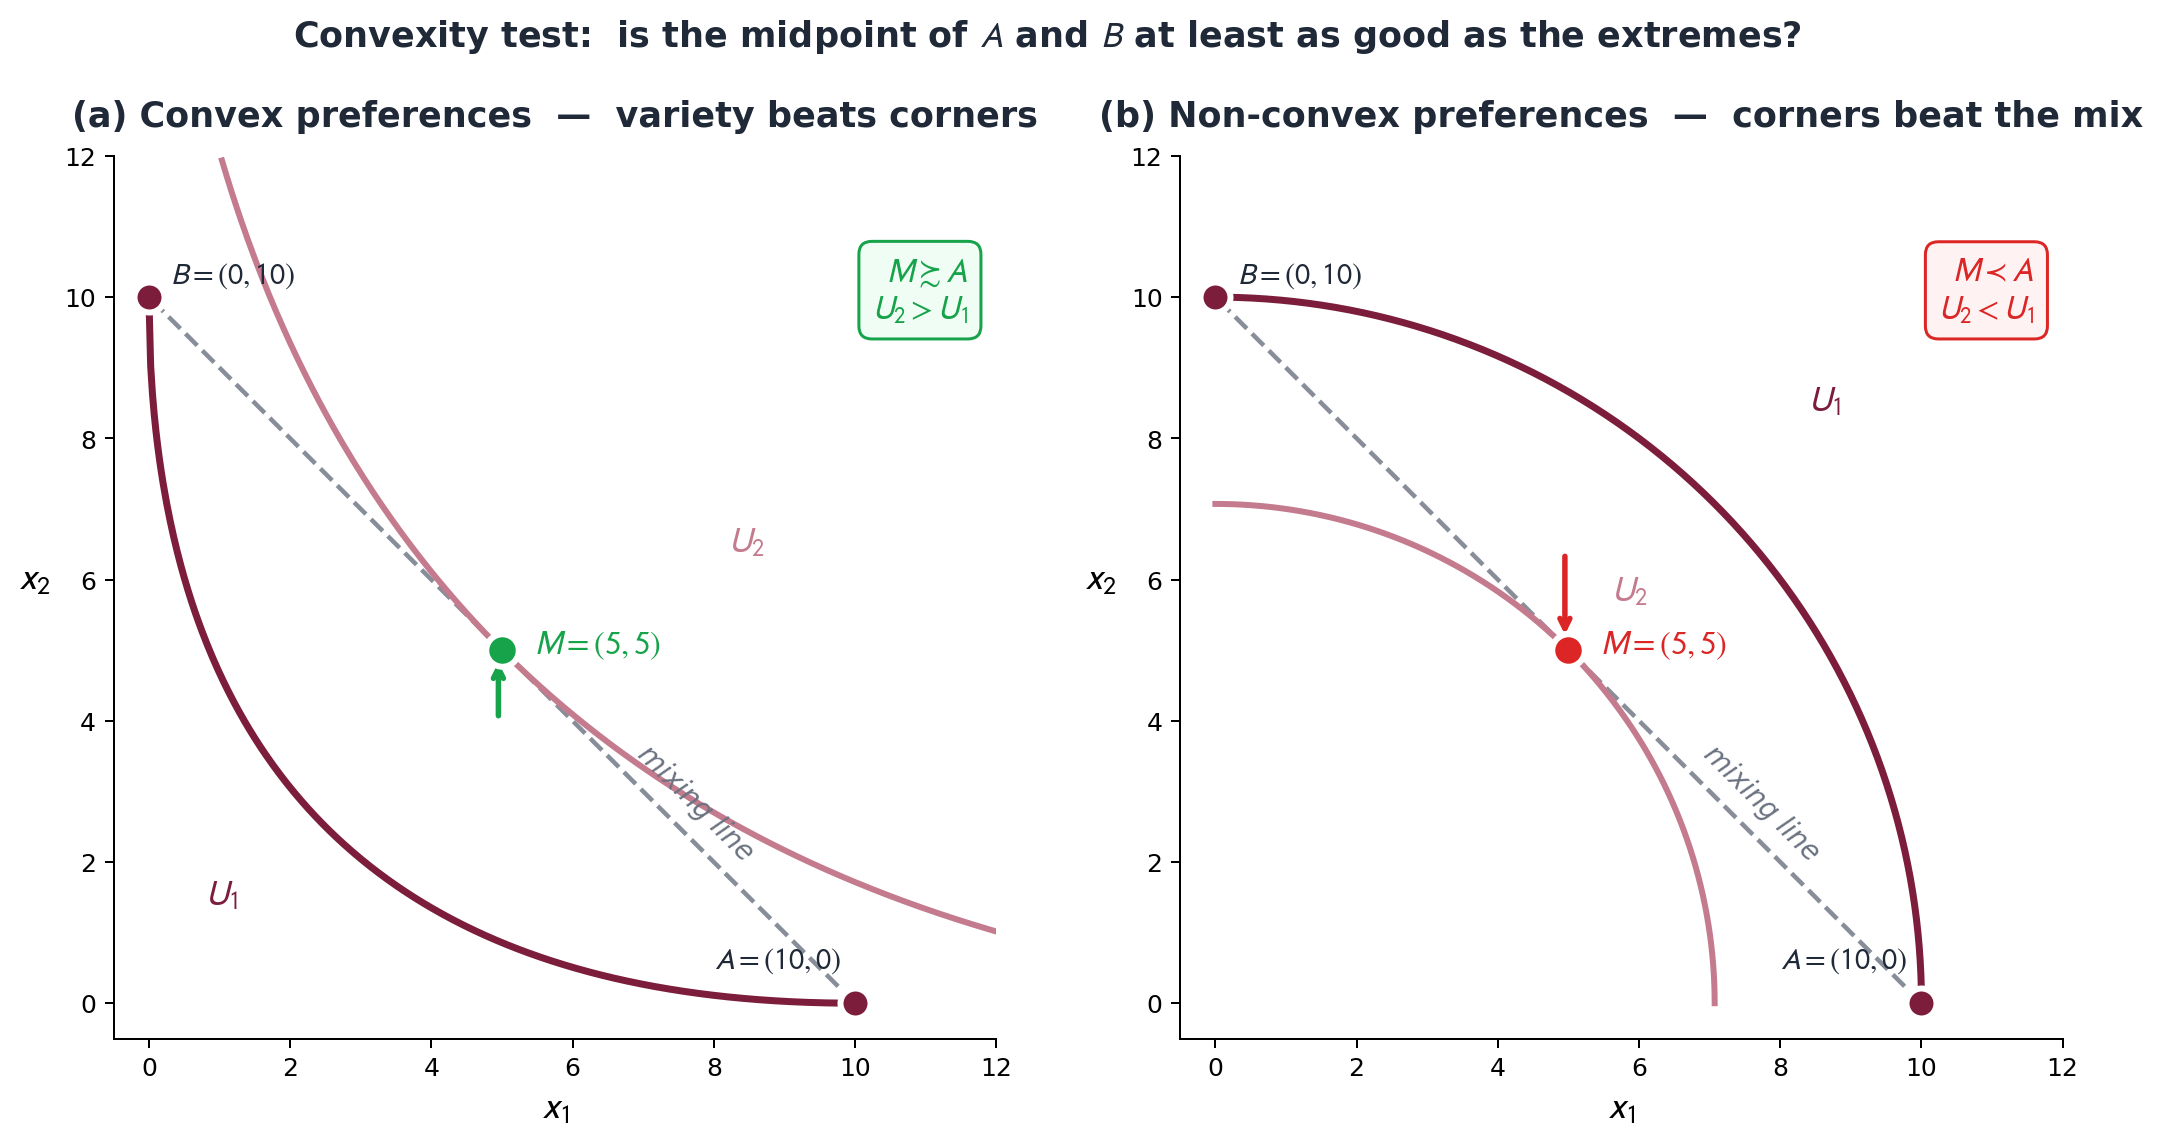
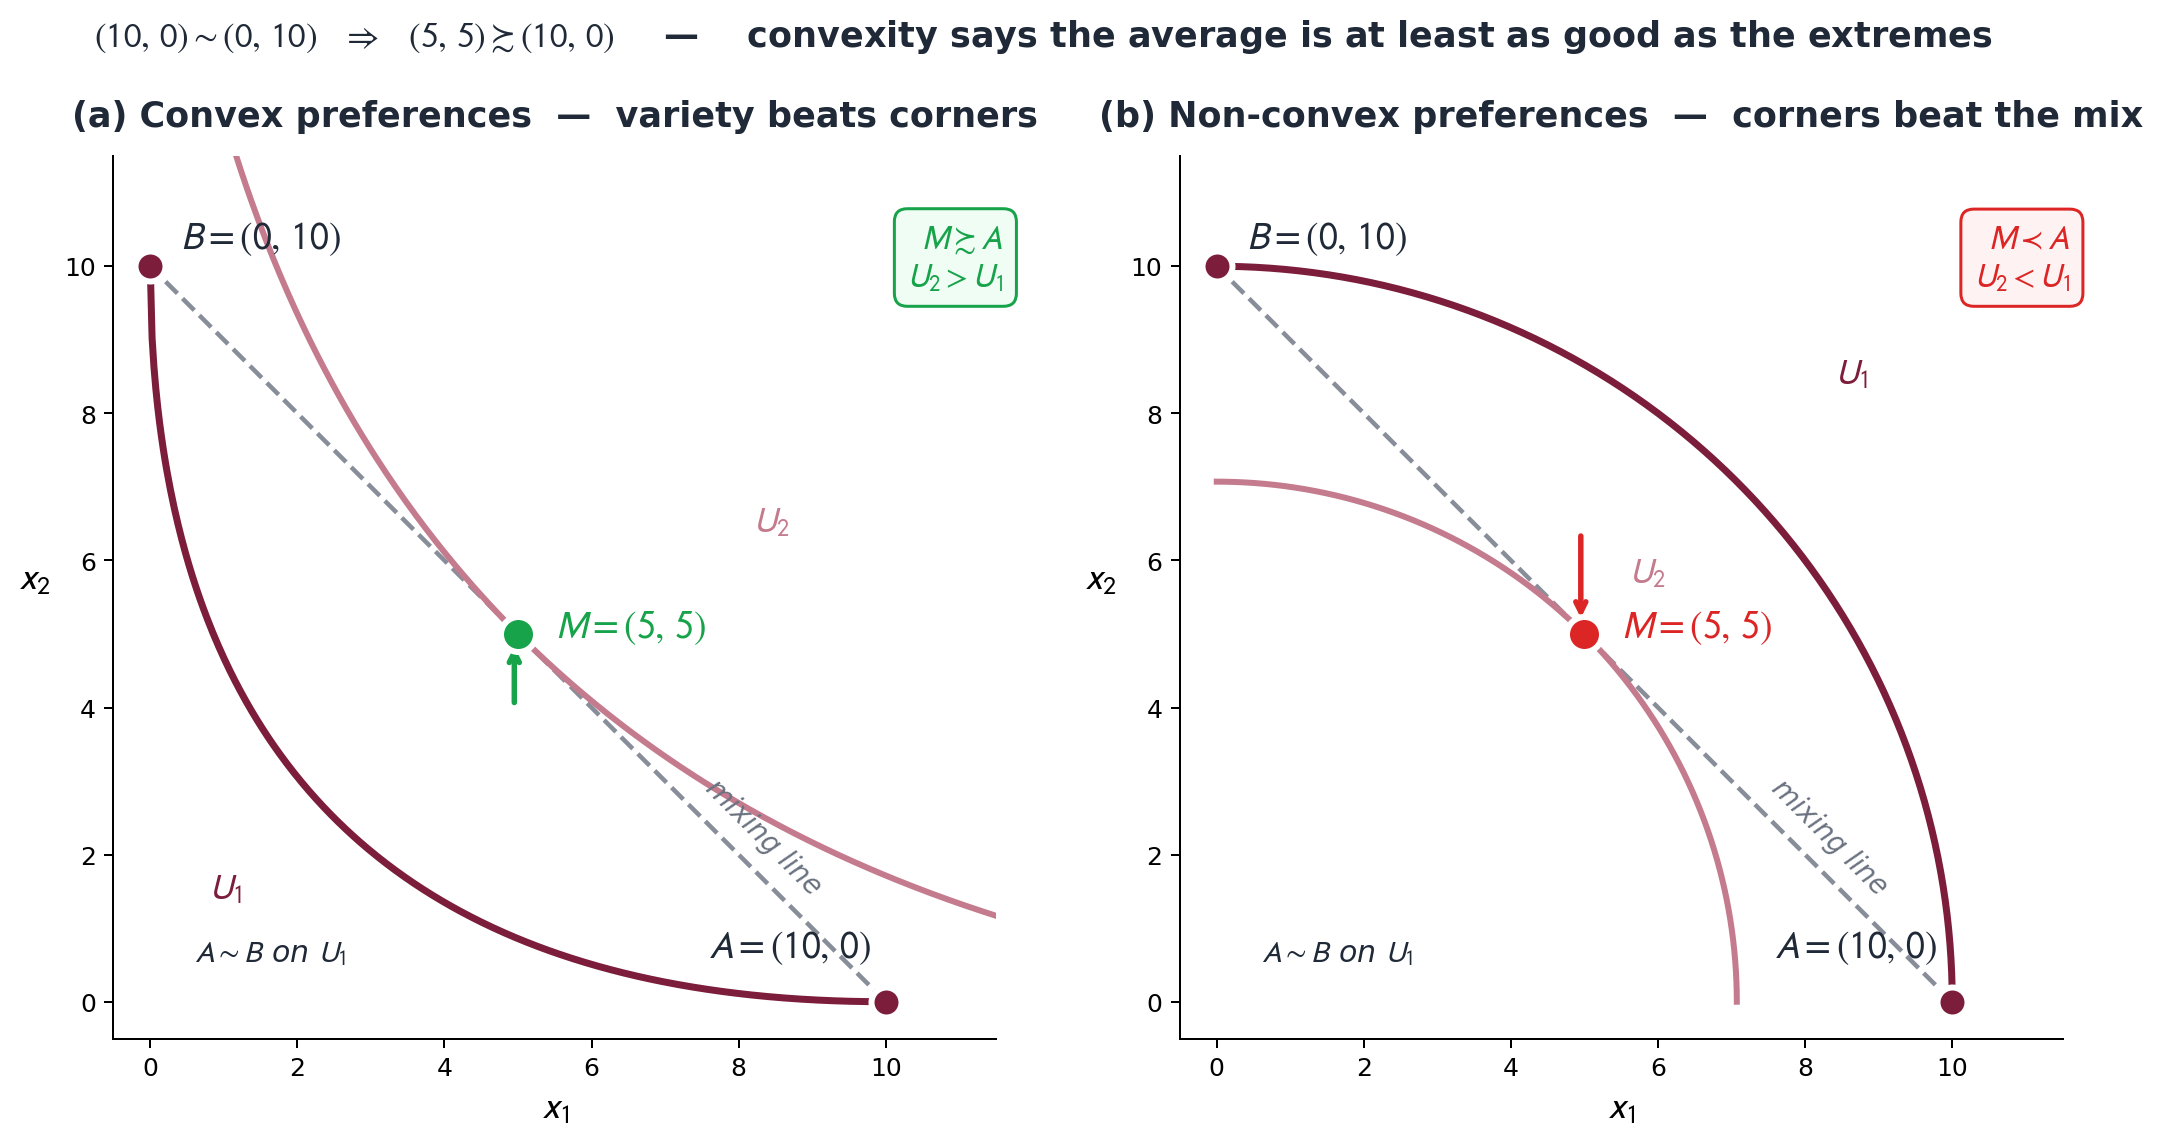
ch04: rename neutral-good Walkthrough to Sofia/TikTok + page-21 figure tweaks
Page 67 (Walkthrough -- A Neutral Good):
- Rename Ming -> Sofia; reality TV -> TikTok (variable R -> T).
- Add sofia_neutral_good.png with the TikTok x-axis label.
- Image is now a fragment paired with Step 1 (same
  data-fragment-index), so the figure stays hidden until the first
  reveal and appears with Step 1.

Page 21 (Convexity):
- Regenerate convexity_avg_vs_extremes.png so the slide's exact
  numbers are unmistakable in the figure: header now reads
  "(10, 0) ~ (0, 10)  =>  (5, 5) %3E= (10, 0)", coordinate labels
  bumped to 15pt, and "A ~ B on U1" added to each panel to surface
  the indifference relation explicitly.

diff --git a/econ2316/ch04-preferences-utility/index.html b/econ2316/ch04-preferences-utility/index.html
@@ -2191,33 +2191,33 @@
   <aside class="notes">Figure 4.8 &mdash; the realistic picture. The perfect-substitutes (straight lines) and perfect-complements (L-shapes) slides just before this are the two textbook extremes; real goods live on the spectrum between them. Panel (a): decaf lattes vs decaf coffees &mdash; very close substitutes, so the indifference curves are <em>almost</em> straight (only gently bowed). Panel (b): tortilla chips vs guacamole &mdash; strong complements, so the curves bow <em>sharply</em> (but not perfectly L-shaped &mdash; you would still take more chips even with no extra guac). The takeaway: curvature is continuous. How sharply an indifference curve bends measures how substitutable two goods are, and that lives on a dial between the SUM and MIN extremes.</aside>
 </section>
 
-<!-- ===== Slide 42b2 — Walkthrough: Neutral Good (Ming, YouTube vs reality TV) ===== -->
+<!-- ===== Slide 42b2 — Walkthrough: Neutral Good (Sofia, YouTube vs TikTok) ===== -->
 <section id="s4-w-neutral-good">
-  <h2><i class="fa-solid fa-pencil" style="color: var(--accent-color);"></i> Walkthrough &mdash; A Neutral Good (Ming's videos)</h2>
-  <p style="font-size: 13pt; color: var(--muted-color); margin: 0 0 8px;"><em>Ming watches \(Y\) hours of YouTube and \(R\) hours of reality shows. More YouTube &rArr; happier. Reality TV is <strong>neutral</strong> &mdash; doesn't move utility. Find the IC map and the MRS at \((R, Y) = (1, 1)\).</em></p>
+  <h2><i class="fa-solid fa-pencil" style="color: var(--accent-color);"></i> Walkthrough &mdash; A Neutral Good (Sofia's videos)</h2>
+  <p style="font-size: 13pt; color: var(--muted-color); margin: 0 0 8px;"><em>Sofia watches \(Y\) hours of YouTube and \(T\) hours of TikTok. More YouTube &rArr; happier. TikTok is <strong>neutral</strong> &mdash; doesn't move utility. Find the IC map and the MRS at \((T, Y) = (1, 1)\).</em></p>
   <div style="display: grid; grid-template-columns: 1.05fr 0.95fr; gap: 22px; align-items: center;">
     <div style="display: flex; flex-direction: column; gap: 8px;">
-      <div class="fragment" style="background: #f8f6f3; padding: 10px 16px; border-radius: 8px;">
-        <p style="font-size: 12.5pt; margin: 0 0 3px;"><strong>Step 1 &mdash; vary \(Y\) at fixed \(R\):</strong></p>
+      <div class="fragment" data-fragment-index="1" style="background: #f8f6f3; padding: 10px 16px; border-radius: 8px;">
+        <p style="font-size: 12.5pt; margin: 0 0 3px;"><strong>Step 1 &mdash; vary \(Y\) at fixed \(T\):</strong></p>
         <p style="font-size: 12.5pt; margin: 0;">\(B = (1, 2)\) has more YouTube than \(A = (1, 1)\) &rArr; \(B \succ A\). Higher \(Y\) sits on a higher IC.</p>
       </div>
-      <div class="fragment" style="background: #f0f5f8; padding: 10px 16px; border-radius: 8px; border-left: 4px solid var(--secondary-color);">
-        <p style="font-size: 12.5pt; margin: 0 0 3px;"><strong>Step 2 &mdash; vary \(R\) at fixed \(Y\):</strong></p>
-        <p style="font-size: 12.5pt; margin: 0;">\(C = (2, 1)\) gives Ming more reality TV than \(A\), but \(R\) is neutral &rArr; \(C \sim A\). Same for \(D, E\) at \(Y = 1\).</p>
+      <div class="fragment" data-fragment-index="2" style="background: #f0f5f8; padding: 10px 16px; border-radius: 8px; border-left: 4px solid var(--secondary-color);">
+        <p style="font-size: 12.5pt; margin: 0 0 3px;"><strong>Step 2 &mdash; vary \(T\) at fixed \(Y\):</strong></p>
+        <p style="font-size: 12.5pt; margin: 0;">\(C = (2, 1)\) gives Sofia more TikTok than \(A\), but \(T\) is neutral &rArr; \(C \sim A\). Same for \(D, E\) at \(Y = 1\).</p>
       </div>
-      <div class="fragment" style="background: #fef9f3; padding: 10px 16px; border-radius: 8px; border-left: 4px solid var(--accent-color);">
+      <div class="fragment" data-fragment-index="3" style="background: #fef9f3; padding: 10px 16px; border-radius: 8px; border-left: 4px solid var(--accent-color);">
         <p style="font-size: 12.5pt; margin: 0;"><strong>Step 3 &mdash; the shape:</strong> ICs are <strong>horizontal lines</strong>. \(A, C, D, E\) all sit on \(U_1\); \(B, F\) sit on the higher \(U_2\).</p>
       </div>
-      <div class="key-result fragment" style="margin: 0;">
-        <p style="font-size: 13pt;">MRS at \((1, 1)\) is the <em>slope</em> of \(U_1\), which is \(0\). \(\mathrm{MRS}_{R, Y} = 0\) &mdash; Ming gives up <strong>zero</strong> YouTube for an extra hour of reality TV.</p>
+      <div class="key-result fragment" data-fragment-index="4" style="margin: 0;">
+        <p style="font-size: 13pt;">MRS at \((1, 1)\) is the <em>slope</em> of \(U_1\), which is \(0\). \(\mathrm{MRS}_{T, Y} = 0\) &mdash; Sofia gives up <strong>zero</strong> YouTube for an extra hour of TikTok.</p>
       </div>
     </div>
-    <div style="text-align: center;">
-      <img alt="Ming's indifference map. Reality shows (R) on the x-axis, YouTube hours (Y) on the y-axis. Two horizontal indifference curves: U1 at Y=1 with points A=(1,1), C=(2,1), D=(3,1), E=(4,1); U2 at Y=2 with points B=(1,2) and F=(3,2). Horizontal ICs are the signature of a neutral good — utility depends on Y only." class="figure" src="figures/ming_neutral_good.png" style="max-width: 100%; max-height: 370px; box-shadow: 0 4px 14px rgba(0,0,0,0.12); border-radius: 6px;">
+    <div class="fragment" data-fragment-index="1" style="text-align: center;">
+      <img alt="Sofia's indifference map. TikTok (T) on the x-axis, YouTube hours (Y) on the y-axis. Two horizontal indifference curves: U1 at Y=1 with points A=(1,1), C=(2,1), D=(3,1), E=(4,1); U2 at Y=2 with points B=(1,2) and F=(3,2). Horizontal ICs are the signature of a neutral good — utility depends on Y only." class="figure" src="figures/sofia_neutral_good.png" style="max-width: 100%; max-height: 370px; box-shadow: 0 4px 14px rgba(0,0,0,0.12); border-radius: 6px;">
       <p style="font-size: 11pt; color: var(--muted-color); font-style: italic; margin-top: 6px;">Horizontal ICs &mdash; the signature of a neutral good.</p>
     </div>
   </div>
-  <aside class="notes">Walkthrough &mdash; the neutral-good case. Ming likes YouTube (a "good") and is neutral on reality TV (a "neutral good"). Construction: (1) vary Y at fixed R &mdash; B beats A because more YouTube on a higher IC. (2) Vary R at fixed Y &mdash; C is equivalent to A because neutral R doesn't move utility; same for D, E. (3) Conclusion &mdash; ICs are horizontal lines parameterized by Y. MRS_{R, Y} = -dY/dR along a horizontal line equals 0. Ming gives up zero YouTube to get an extra hour of reality TV. Sits alongside perfect substitutes (constant positive MRS), perfect complements (corner kink), and quasilinear (one-good-linear) as another canonical IC shape.</aside>
+  <aside class="notes">Walkthrough &mdash; the neutral-good case. Sofia likes YouTube (a "good") and is neutral on TikTok (a "neutral good"). Construction: (1) vary Y at fixed T &mdash; B beats A because more YouTube on a higher IC. (2) Vary T at fixed Y &mdash; C is equivalent to A because neutral T doesn't move utility; same for D, E. (3) Conclusion &mdash; ICs are horizontal lines parameterized by Y. MRS_{T, Y} = -dY/dT along a horizontal line equals 0. Sofia gives up zero YouTube to get an extra hour of TikTok. Sits alongside perfect substitutes (constant positive MRS), perfect complements (corner kink), and quasilinear (one-good-linear) as another canonical IC shape. The image appears together with step 1 on the first press.</aside>
 </section>
 
 <!-- ===== Slide 42c — Figure 4.11: same consumer, different shapes ===== -->

diff --git a/econ2316/ch04-preferences-utility/presentation.html b/econ2316/ch04-preferences-utility/presentation.html
@@ -2191,33 +2191,33 @@
   <aside class="notes">Figure 4.8 &mdash; the realistic picture. The perfect-substitutes (straight lines) and perfect-complements (L-shapes) slides just before this are the two textbook extremes; real goods live on the spectrum between them. Panel (a): decaf lattes vs decaf coffees &mdash; very close substitutes, so the indifference curves are <em>almost</em> straight (only gently bowed). Panel (b): tortilla chips vs guacamole &mdash; strong complements, so the curves bow <em>sharply</em> (but not perfectly L-shaped &mdash; you would still take more chips even with no extra guac). The takeaway: curvature is continuous. How sharply an indifference curve bends measures how substitutable two goods are, and that lives on a dial between the SUM and MIN extremes.</aside>
 </section>
 
-<!-- ===== Slide 42b2 — Walkthrough: Neutral Good (Ming, YouTube vs reality TV) ===== -->
+<!-- ===== Slide 42b2 — Walkthrough: Neutral Good (Sofia, YouTube vs TikTok) ===== -->
 <section id="s4-w-neutral-good">
-  <h2><i class="fa-solid fa-pencil" style="color: var(--accent-color);"></i> Walkthrough &mdash; A Neutral Good (Ming's videos)</h2>
-  <p style="font-size: 13pt; color: var(--muted-color); margin: 0 0 8px;"><em>Ming watches \(Y\) hours of YouTube and \(R\) hours of reality shows. More YouTube &rArr; happier. Reality TV is <strong>neutral</strong> &mdash; doesn't move utility. Find the IC map and the MRS at \((R, Y) = (1, 1)\).</em></p>
+  <h2><i class="fa-solid fa-pencil" style="color: var(--accent-color);"></i> Walkthrough &mdash; A Neutral Good (Sofia's videos)</h2>
+  <p style="font-size: 13pt; color: var(--muted-color); margin: 0 0 8px;"><em>Sofia watches \(Y\) hours of YouTube and \(T\) hours of TikTok. More YouTube &rArr; happier. TikTok is <strong>neutral</strong> &mdash; doesn't move utility. Find the IC map and the MRS at \((T, Y) = (1, 1)\).</em></p>
   <div style="display: grid; grid-template-columns: 1.05fr 0.95fr; gap: 22px; align-items: center;">
     <div style="display: flex; flex-direction: column; gap: 8px;">
-      <div class="fragment" style="background: #f8f6f3; padding: 10px 16px; border-radius: 8px;">
-        <p style="font-size: 12.5pt; margin: 0 0 3px;"><strong>Step 1 &mdash; vary \(Y\) at fixed \(R\):</strong></p>
+      <div class="fragment" data-fragment-index="1" style="background: #f8f6f3; padding: 10px 16px; border-radius: 8px;">
+        <p style="font-size: 12.5pt; margin: 0 0 3px;"><strong>Step 1 &mdash; vary \(Y\) at fixed \(T\):</strong></p>
         <p style="font-size: 12.5pt; margin: 0;">\(B = (1, 2)\) has more YouTube than \(A = (1, 1)\) &rArr; \(B \succ A\). Higher \(Y\) sits on a higher IC.</p>
       </div>
-      <div class="fragment" style="background: #f0f5f8; padding: 10px 16px; border-radius: 8px; border-left: 4px solid var(--secondary-color);">
-        <p style="font-size: 12.5pt; margin: 0 0 3px;"><strong>Step 2 &mdash; vary \(R\) at fixed \(Y\):</strong></p>
-        <p style="font-size: 12.5pt; margin: 0;">\(C = (2, 1)\) gives Ming more reality TV than \(A\), but \(R\) is neutral &rArr; \(C \sim A\). Same for \(D, E\) at \(Y = 1\).</p>
+      <div class="fragment" data-fragment-index="2" style="background: #f0f5f8; padding: 10px 16px; border-radius: 8px; border-left: 4px solid var(--secondary-color);">
+        <p style="font-size: 12.5pt; margin: 0 0 3px;"><strong>Step 2 &mdash; vary \(T\) at fixed \(Y\):</strong></p>
+        <p style="font-size: 12.5pt; margin: 0;">\(C = (2, 1)\) gives Sofia more TikTok than \(A\), but \(T\) is neutral &rArr; \(C \sim A\). Same for \(D, E\) at \(Y = 1\).</p>
       </div>
-      <div class="fragment" style="background: #fef9f3; padding: 10px 16px; border-radius: 8px; border-left: 4px solid var(--accent-color);">
+      <div class="fragment" data-fragment-index="3" style="background: #fef9f3; padding: 10px 16px; border-radius: 8px; border-left: 4px solid var(--accent-color);">
         <p style="font-size: 12.5pt; margin: 0;"><strong>Step 3 &mdash; the shape:</strong> ICs are <strong>horizontal lines</strong>. \(A, C, D, E\) all sit on \(U_1\); \(B, F\) sit on the higher \(U_2\).</p>
       </div>
-      <div class="key-result fragment" style="margin: 0;">
-        <p style="font-size: 13pt;">MRS at \((1, 1)\) is the <em>slope</em> of \(U_1\), which is \(0\). \(\mathrm{MRS}_{R, Y} = 0\) &mdash; Ming gives up <strong>zero</strong> YouTube for an extra hour of reality TV.</p>
+      <div class="key-result fragment" data-fragment-index="4" style="margin: 0;">
+        <p style="font-size: 13pt;">MRS at \((1, 1)\) is the <em>slope</em> of \(U_1\), which is \(0\). \(\mathrm{MRS}_{T, Y} = 0\) &mdash; Sofia gives up <strong>zero</strong> YouTube for an extra hour of TikTok.</p>
       </div>
     </div>
-    <div style="text-align: center;">
-      <img alt="Ming's indifference map. Reality shows (R) on the x-axis, YouTube hours (Y) on the y-axis. Two horizontal indifference curves: U1 at Y=1 with points A=(1,1), C=(2,1), D=(3,1), E=(4,1); U2 at Y=2 with points B=(1,2) and F=(3,2). Horizontal ICs are the signature of a neutral good — utility depends on Y only." class="figure" src="figures/ming_neutral_good.png" style="max-width: 100%; max-height: 370px; box-shadow: 0 4px 14px rgba(0,0,0,0.12); border-radius: 6px;">
+    <div class="fragment" data-fragment-index="1" style="text-align: center;">
+      <img alt="Sofia's indifference map. TikTok (T) on the x-axis, YouTube hours (Y) on the y-axis. Two horizontal indifference curves: U1 at Y=1 with points A=(1,1), C=(2,1), D=(3,1), E=(4,1); U2 at Y=2 with points B=(1,2) and F=(3,2). Horizontal ICs are the signature of a neutral good — utility depends on Y only." class="figure" src="figures/sofia_neutral_good.png" style="max-width: 100%; max-height: 370px; box-shadow: 0 4px 14px rgba(0,0,0,0.12); border-radius: 6px;">
       <p style="font-size: 11pt; color: var(--muted-color); font-style: italic; margin-top: 6px;">Horizontal ICs &mdash; the signature of a neutral good.</p>
     </div>
   </div>
-  <aside class="notes">Walkthrough &mdash; the neutral-good case. Ming likes YouTube (a "good") and is neutral on reality TV (a "neutral good"). Construction: (1) vary Y at fixed R &mdash; B beats A because more YouTube on a higher IC. (2) Vary R at fixed Y &mdash; C is equivalent to A because neutral R doesn't move utility; same for D, E. (3) Conclusion &mdash; ICs are horizontal lines parameterized by Y. MRS_{R, Y} = -dY/dR along a horizontal line equals 0. Ming gives up zero YouTube to get an extra hour of reality TV. Sits alongside perfect substitutes (constant positive MRS), perfect complements (corner kink), and quasilinear (one-good-linear) as another canonical IC shape.</aside>
+  <aside class="notes">Walkthrough &mdash; the neutral-good case. Sofia likes YouTube (a "good") and is neutral on TikTok (a "neutral good"). Construction: (1) vary Y at fixed T &mdash; B beats A because more YouTube on a higher IC. (2) Vary T at fixed Y &mdash; C is equivalent to A because neutral T doesn't move utility; same for D, E. (3) Conclusion &mdash; ICs are horizontal lines parameterized by Y. MRS_{T, Y} = -dY/dT along a horizontal line equals 0. Sofia gives up zero YouTube to get an extra hour of TikTok. Sits alongside perfect substitutes (constant positive MRS), perfect complements (corner kink), and quasilinear (one-good-linear) as another canonical IC shape. The image appears together with step 1 on the first press.</aside>
 </section>
 
 <!-- ===== Slide 42c — Figure 4.11: same consumer, different shapes ===== -->
